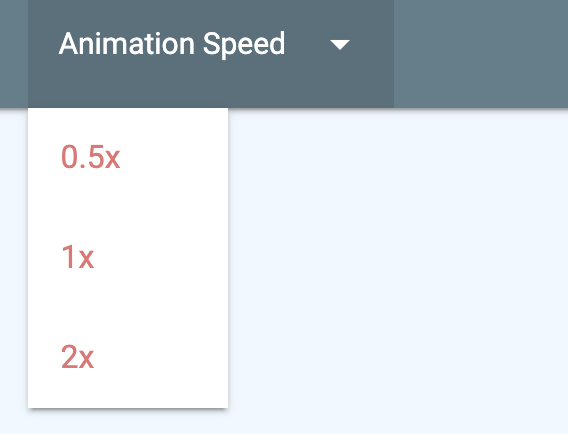
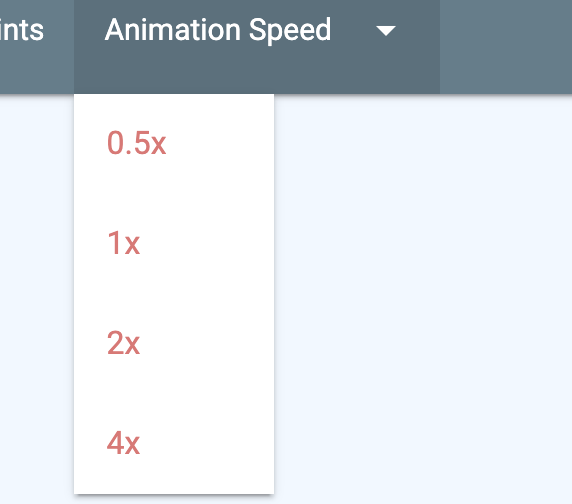
Updated tutorial

diff --git a/app.js b/app.js
@@ -108,7 +108,7 @@ class UI {
             'By clicking the \'Add New Point\' button in the menu, you can add new points, with a maximum of 10, to the simulation. All points and point data will be saved, even after you close or refresh the page.',
             'You can set the position of any point by either dragging the point to a position with the cursor, or manually input the values for its x and y coordinate in the settings box, which is opened by clicking on the point you wish to edit. Here you can give the points names as well as set the speed at which the object represented by the point travels at.',
             'Points can be individually deleted by clicking the \'Delete Point\' button in its settings. You can also click the \'Clear Points\' button in the menu if you would like to delete all points. You will be prompted to confirm the decision.',
-            'The speed at which the animation plays can be changed in the \'Animation Speed\' section of the menu. You can choose from 0.5x, 1x (normal), and 2x.',
+            'The speed at which the animation runs can be set in the \'Animation Speed\' menu section. You can choose from 0.5x, 1x (normal), 2x, and 4x.',
             'I hope you enjoy using this application! You can send me any feedback or report any bugs by sending an email to bajraktaridardan5@gmail.com.'
         ];
         const tutorialImages = ['Images/points.png', 'Images/Meet Point.png', 'Images/modes.png', 'Images/Adding Points.png', 'Images/Point Settings.png', 'Images/Clear Points.png', 'Images/Animation Speed.png', 'Images/smile.png'];
